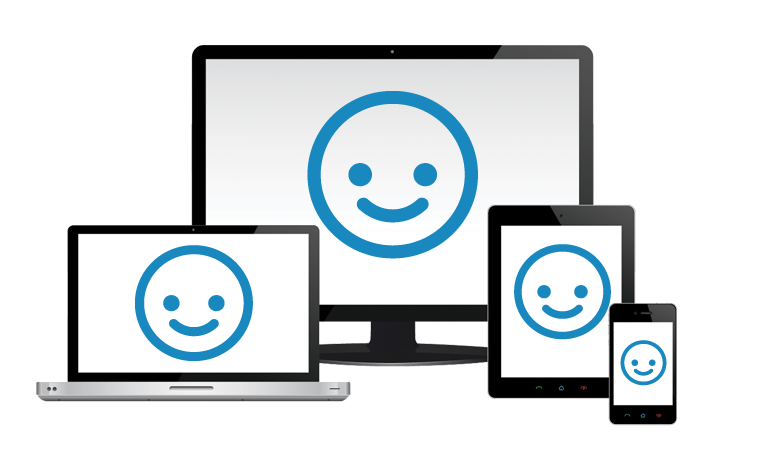
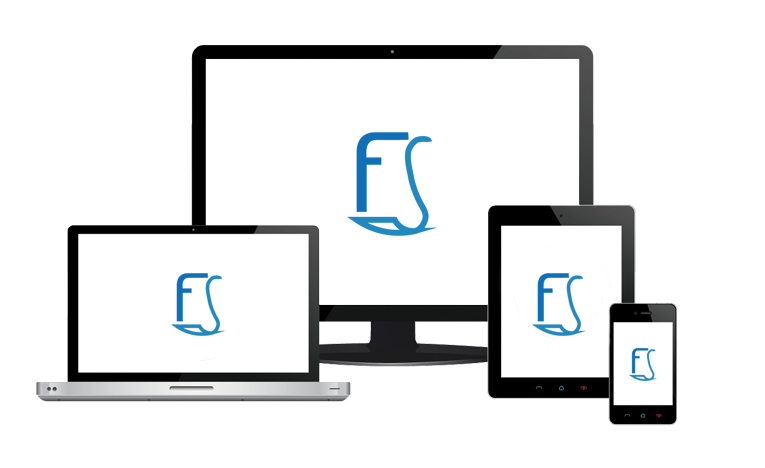
- Añadido nuevo logotipo. - Ya se pueden eliminar items y comentarios.

diff --git a/view/community_item.html b/view/community_item.html
@@ -1,18 +1,52 @@
 {include="header"}
 
 {if="$fsc->item"}
-<div role="tabpanel">
-   <ul class="nav nav-tabs" role="tablist">
-      <li>
-         <a href="index.php?page=community_all" title="Todo">
-            <span class="glyphicon glyphicon-arrow-left"></span>
-         </a>
-      </li>
-      <li>
-         <a href="{$fsc->item->url()}" title="Recargar la página">
+<script type="text/javascript">
+   function delete_comment(idc)
+   {
+      if( confirm("¿Realmente desea eliminar el comentario?") )
+            window.location.href = '{$fsc->item->url()}&delete='+idc;
+   }
+   $(document).ready(function() {
+      $("#b_eliminar_item").click(function(event) {
+         event.preventDefault();
+         if( confirm("¿Realmente desea eliminar la página?") )
+            window.location.href = 'index.php?page=community_all&delete={$fsc->item->id}';
+      });
+   });
+</script>
+
+<div class="container-fluid" style="margin-top: 10px; margin-bottom: 10px;">
+   <div class="row">
+      <div class="col-sm-6">
+         <a class="btn btn-sm btn-default" href="{$fsc->item->url()}" title="Recargar la página">
             <span class="glyphicon glyphicon-refresh"></span>
          </a>
-      </li>
+         
+         <a class="btn btn-sm btn-default" href="index.php?page=community_all">
+            <span class="glyphicon glyphicon-arrow-left"></span> &nbsp; Todo
+         </a>
+         
+         <div class="btn-group">
+         {loop="$fsc->extensions"}
+            {if="$value->type=='button'"}
+            <a href="index.php?page={$value->from}{$value->params}" class="btn btn-sm btn-default">{$value->text}</a>
+            {/if}
+         {/loop}
+         </div>
+      </div>
+      <div class="col-sm-6 text-right">
+         {if="$fsc->allow_delete"}
+         <a id="b_eliminar_item" class="btn btn-sm btn-danger" href="#">
+            <span class="glyphicon glyphicon-trash"></span> &nbsp; Eliminar
+         </a>
+         {/if}
+      </div>
+   </div>
+</div>
+
+<div role="tabpanel">
+   <ul class="nav nav-tabs" role="tablist">
       <li role="presentation" class="active">
          <a href="#home" aria-controls="home" role="tab" data-toggle="tab">
             {if="$fsc->item->privado"}
@@ -41,7 +75,14 @@
             <div class="row">
                <div class="col-sm-12">
                   <div class="well well-sm">
-                     <span class="pull-right">{$value->timesince()}</span>
+                     <span class="pull-right">
+                        {$value->timesince()} &nbsp;
+                        {if="$fsc->allow_delete"}
+                        <a href="#" class="btn btn-xs btn-danger" title="eliminar" onclick="delete_comment('{$value->id}')">
+                           <span class="glyphicon glyphicon-trash"></span>
+                        </a>
+                        {/if}
+                     </span>
                      <span class="glyphicon glyphicon-user"></span> &nbsp; {$value->email()}
                      <hr/>
                      <p>{$fsc->bbcode2html($value->texto)}</p>
@@ -109,6 +150,10 @@
          </div>
       </div>
    </div>
+</div>
+{else}
+<div class="thumbnail">
+   <img src="view/img/fuuu_face.png" alt="nooooo"/>
 </div>
 {/if}
 

diff --git a/view/public/errors.html b/view/public/errors.html
@@ -3,7 +3,7 @@
 <div class="container-fluid" style="margin-top: 10px;">
    <div class="row">
       <div class="col-sm-4">
-         <a href="index.php?page=community_feedback" class="btn btn-sm btn-default">
+         <a href="#" class="btn btn-sm btn-default" data-toggle="modal" data-target="#modal_nuevo_error">
             <span class="glyphicon glyphicon-pencil"></span> &nbsp; Nuevo
          </a>
       </div>
@@ -61,5 +61,24 @@
    </li>
    {/if}
 </ul>
+
+<div class="modal fade" id="modal_nuevo_error" tabindex="-1" role="dialog" aria-labelledby="myModalLabel" aria-hidden="true">
+   <div class="modal-dialog">
+      <div class="modal-content">
+         <div class="modal-header">
+            <button type="button" class="close" data-dismiss="modal" aria-label="Close">
+               <span aria-hidden="true">&times;</span>
+            </button>
+            <h4 class="modal-title" id="myModalLabel">Informes de error</h4>
+         </div>
+         <div class="modal-body">
+            <p>Si puedes, es mejor que envíes los informes de error desde FacturaScripts.</p>
+            <div class="thumbnail">
+               <img src="view/img/help-menu.png" alt="fs"/>
+            </div>
+         </div>
+      </div>
+   </div>
+</div>
 
 {include="public/footer"}

diff --git a/view/public/portada.html b/view/public/portada.html
@@ -71,7 +71,7 @@
                      Comprueba los plugins en descarga directa como el de <b>servicio de atención técnica</b> (SAT).
                      Y si necesitas más, echa un vistazo a nuestra tienda de plugins.
                   </p>
-                  <a href="https://www.facturascripts.com/store" class="btn btn-info">
+                  <a href="https://www.facturascripts.com/store" target="_blank" class="btn btn-info">
                      <span class="glyphicon glyphicon-shopping-cart" aria-hidden="true"></span> &nbsp; Tienda de plugins
                   </a>
                </div>

diff --git a/view/public/item.html b/view/public/item.html
@@ -1,6 +1,9 @@
 {include="public/header"}
 
 {if="!$fsc->item"}
+<div class="thumbnail">
+   <img src="view/img/fuuu_face.png" alt="nooooo"/>
+</div>
 {elseif="$fsc->item->privado AND $fsc->item->rid!=$fsc->rid"}
 <div class="alert alert-danger">No tienes permiso para ver esta página.</div>
 {else}

diff --git a/controller/community_item.php b/controller/community_item.php
@@ -18,6 +18,7 @@ require_model('comm3_visitante.php');
  */
 class community_item extends fs_controller
 {
+   public $allow_delete;
    public $comments;
    public $comment_text;
    public $comment_email;
@@ -37,6 +38,9 @@ class community_item extends fs_controller
     */
    protected function private_core()
    {
+      /// ¿El usuario tiene permiso para eliminar en esta página?
+      $this->allow_delete = $this->user->allow_delete_on(__CLASS__);
+      
       $this->item = FALSE;
       $item = new comm3_item();
       $comment = new comm3_comment();
@@ -95,6 +99,25 @@ class community_item extends fs_controller
             }
             else
                $this->new_error_msg('Error al guardar los datos.');
+         }
+         else if( isset($_GET['delete']) )
+         {
+            $comm2 = $comment->get($_GET['delete']);
+            if($comm2)
+            {
+               if( $comm2->delete() )
+               {
+                  $this->new_message('Comentario eliminado correctamente.');
+               }
+               else
+               {
+                  $this->new_error_msg('Error al eliminar el comentario.');
+               }
+            }
+            else
+            {
+               $this->new_error_msg('Comentario no encontrado.');
+            }
          }
          
          $this->comments = $comment->get_by_iditem($this->item->id);

diff --git a/controller/community_all.php b/controller/community_all.php
@@ -27,18 +27,38 @@ class community_all extends fs_controller
    
    protected function private_core()
    {
+      $item = new comm3_item();
+      
       $this->offset = 0;
       if( isset($_GET['offset']) )
       {
          $this->offset = intval($_GET['offset']);
       }
       
-      if( isset($_GET['old']) )
+      if( isset($_GET['delete']) )
+      {
+         $item2 = $item->get($_GET['delete']);
+         if($item2)
+         {
+            if( $item2->delete() )
+            {
+               $this->new_message('Página eliminada correctamente.');
+            }
+            else
+            {
+               $this->new_error_msg('Error al eliminar la página.');
+            }
+         }
+         else
+         {
+            $this->new_error_msg('Página no encontrada.');
+         }
+      }
+      else if( isset($_GET['old']) )
       {
          $this->get_old_items();
       }
       
-      $item = new comm3_item();
       $this->resultados = $item->all($this->offset);
    }
    
